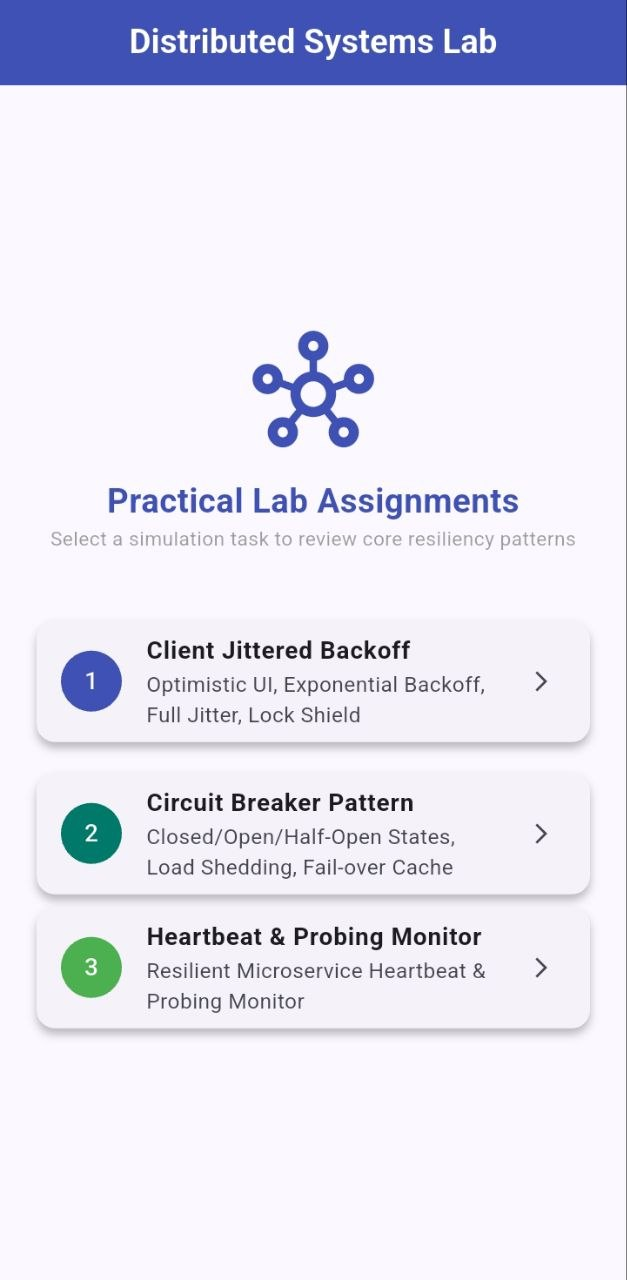
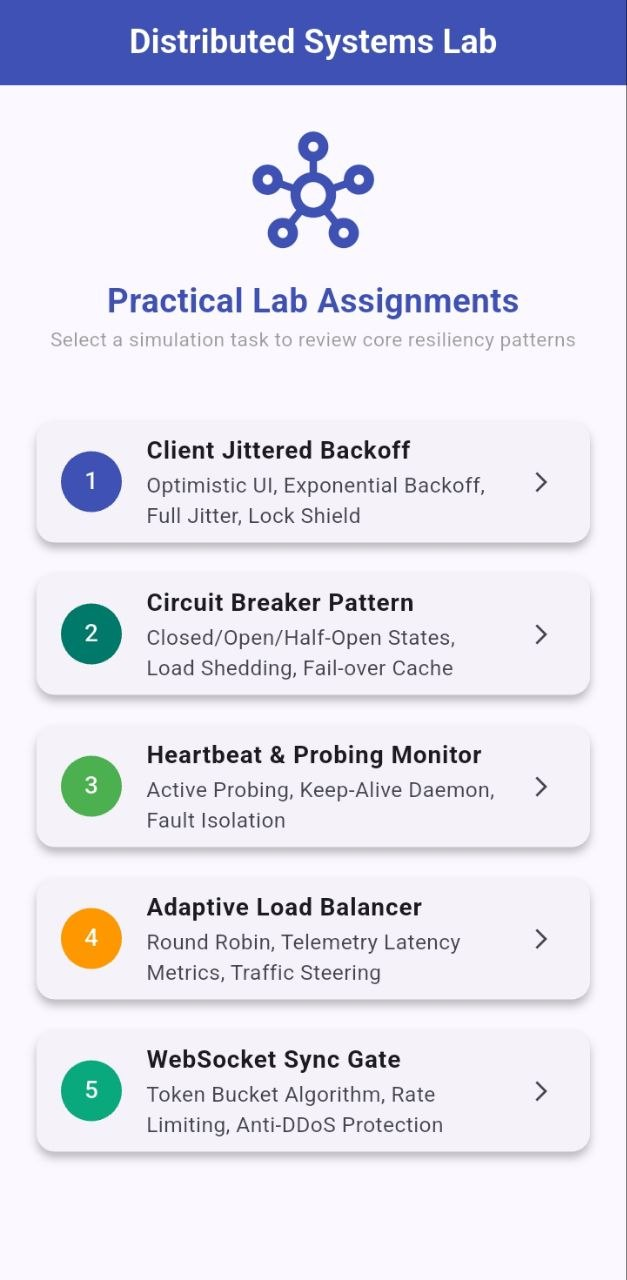
fix: refine dashboard task subtitles with accurate architectural metrics

Changed region(s): [[0.0606, 0.0938, 0.9394, 0.9062], [0.8182, 0.25, 0.9091, 0.2812], [0.0909, 0.25, 0.1515, 0.2812]]

diff --git a/lib/Widget/DistributedTasksDashboard.dart b/lib/Widget/DistributedTasksDashboard.dart
@@ -1,8 +1,6 @@
-
 import 'package:flutter/material.dart';
 import 'package:get/get.dart';
 import 'package:taskone/Real-Time-WebSocket-State-Sync-Gate/rate_limiter_Screen.dart';
-
 import '../CircuitBreaker/CircuitBreakerScreen.dart';
 import '../Client-Jittered-Backoff-and-Jitter-Lockshield/JitterBackoffScreen.dart';
 import '../Load_balance/load_balancer_Screen.dart';
@@ -40,6 +38,7 @@ class DistributedTasksDashboard extends StatelessWidget {
             ),
             const SizedBox(height: 40),
 
+            // Task 1: Client Jittered Backoff
             Card(
               elevation: 4,
               child: ListTile(
@@ -56,6 +55,7 @@ class DistributedTasksDashboard extends StatelessWidget {
             ),
             const SizedBox(height: 12),
 
+            // Task 2: Circuit Breaker Pattern
             Card(
               elevation: 4,
               child: ListTile(
@@ -70,60 +70,58 @@ class DistributedTasksDashboard extends StatelessWidget {
                 onTap: () => Get.to(() => CircuitBreakerScreen()),
               ),
             ),
+            const SizedBox(height: 12),
 
+            // Task 3: Heartbeat & Probing Monitor
             Card(
               elevation: 4,
               child: ListTile(
-                leading: CircleAvatar(
+                leading: const CircleAvatar(
                   backgroundColor: Colors.green,
                   foregroundColor: Colors.white,
-                  child: const Text('3'),
+                  child: Text('3'),
                 ),
                 title: const Text('Heartbeat & Probing Monitor', style: TextStyle(fontWeight: FontWeight.bold)),
-                subtitle: const Text('Resilient Microservice Heartbeat & Probing Monitor'),
+                subtitle: const Text('Active Probing, Keep-Alive Daemon, Fault Isolation'),
                 trailing: const Icon(Icons.arrow_forward_ios, size: 16),
                 onTap: () => Get.to(() => HeartbeatScreen()),
               ),
             ),
+            const SizedBox(height: 12),
 
-
+            // Task 4: Adaptive Load Balancer
             Card(
               elevation: 4,
               child: ListTile(
-                leading: CircleAvatar(
+                leading: const CircleAvatar(
                   backgroundColor: Colors.orange,
                   foregroundColor: Colors.white,
-                  child: const Text('4'),
+                  child: Text('4'),
                 ),
                 title: const Text('Adaptive Load Balancer', style: TextStyle(fontWeight: FontWeight.bold)),
-                subtitle: const Text('Adaptive Frontend Load Balancer Logic'),
+                subtitle: const Text('Round Robin, Telemetry Latency Metrics, Traffic Steering'),
                 trailing: const Icon(Icons.arrow_forward_ios, size: 16),
                 onTap: () => Get.to(() => LoadBalancerScreen()),
               ),
             ),
+            const SizedBox(height: 12),
 
-
+            // Task 5: WebSocket Sync Gate
             Card(
               elevation: 4,
               child: ListTile(
-                leading: CircleAvatar(
+                leading: const CircleAvatar(
                   backgroundColor: Color(0xff0aa87d),
                   foregroundColor: Colors.white,
-                  child: const Text('5'),
+                  child: Text('5'),
                 ),
                 title: const Text('WebSocket Sync Gate', style: TextStyle(fontWeight: FontWeight.bold)),
-                subtitle: const Text('Adaptive Frontend Load Balancer Logic'),
+                subtitle: const Text('Token Bucket Algorithm, Rate Limiting, Anti-DDoS Protection'),
                 trailing: const Icon(Icons.arrow_forward_ios, size: 16),
                 onTap: () => Get.to(() => RateLimiterScreen()),
               ),
             ),
-
-
-
-
-
-
-
+            SizedBox(height: 50,)
           ],
         ),
       ),